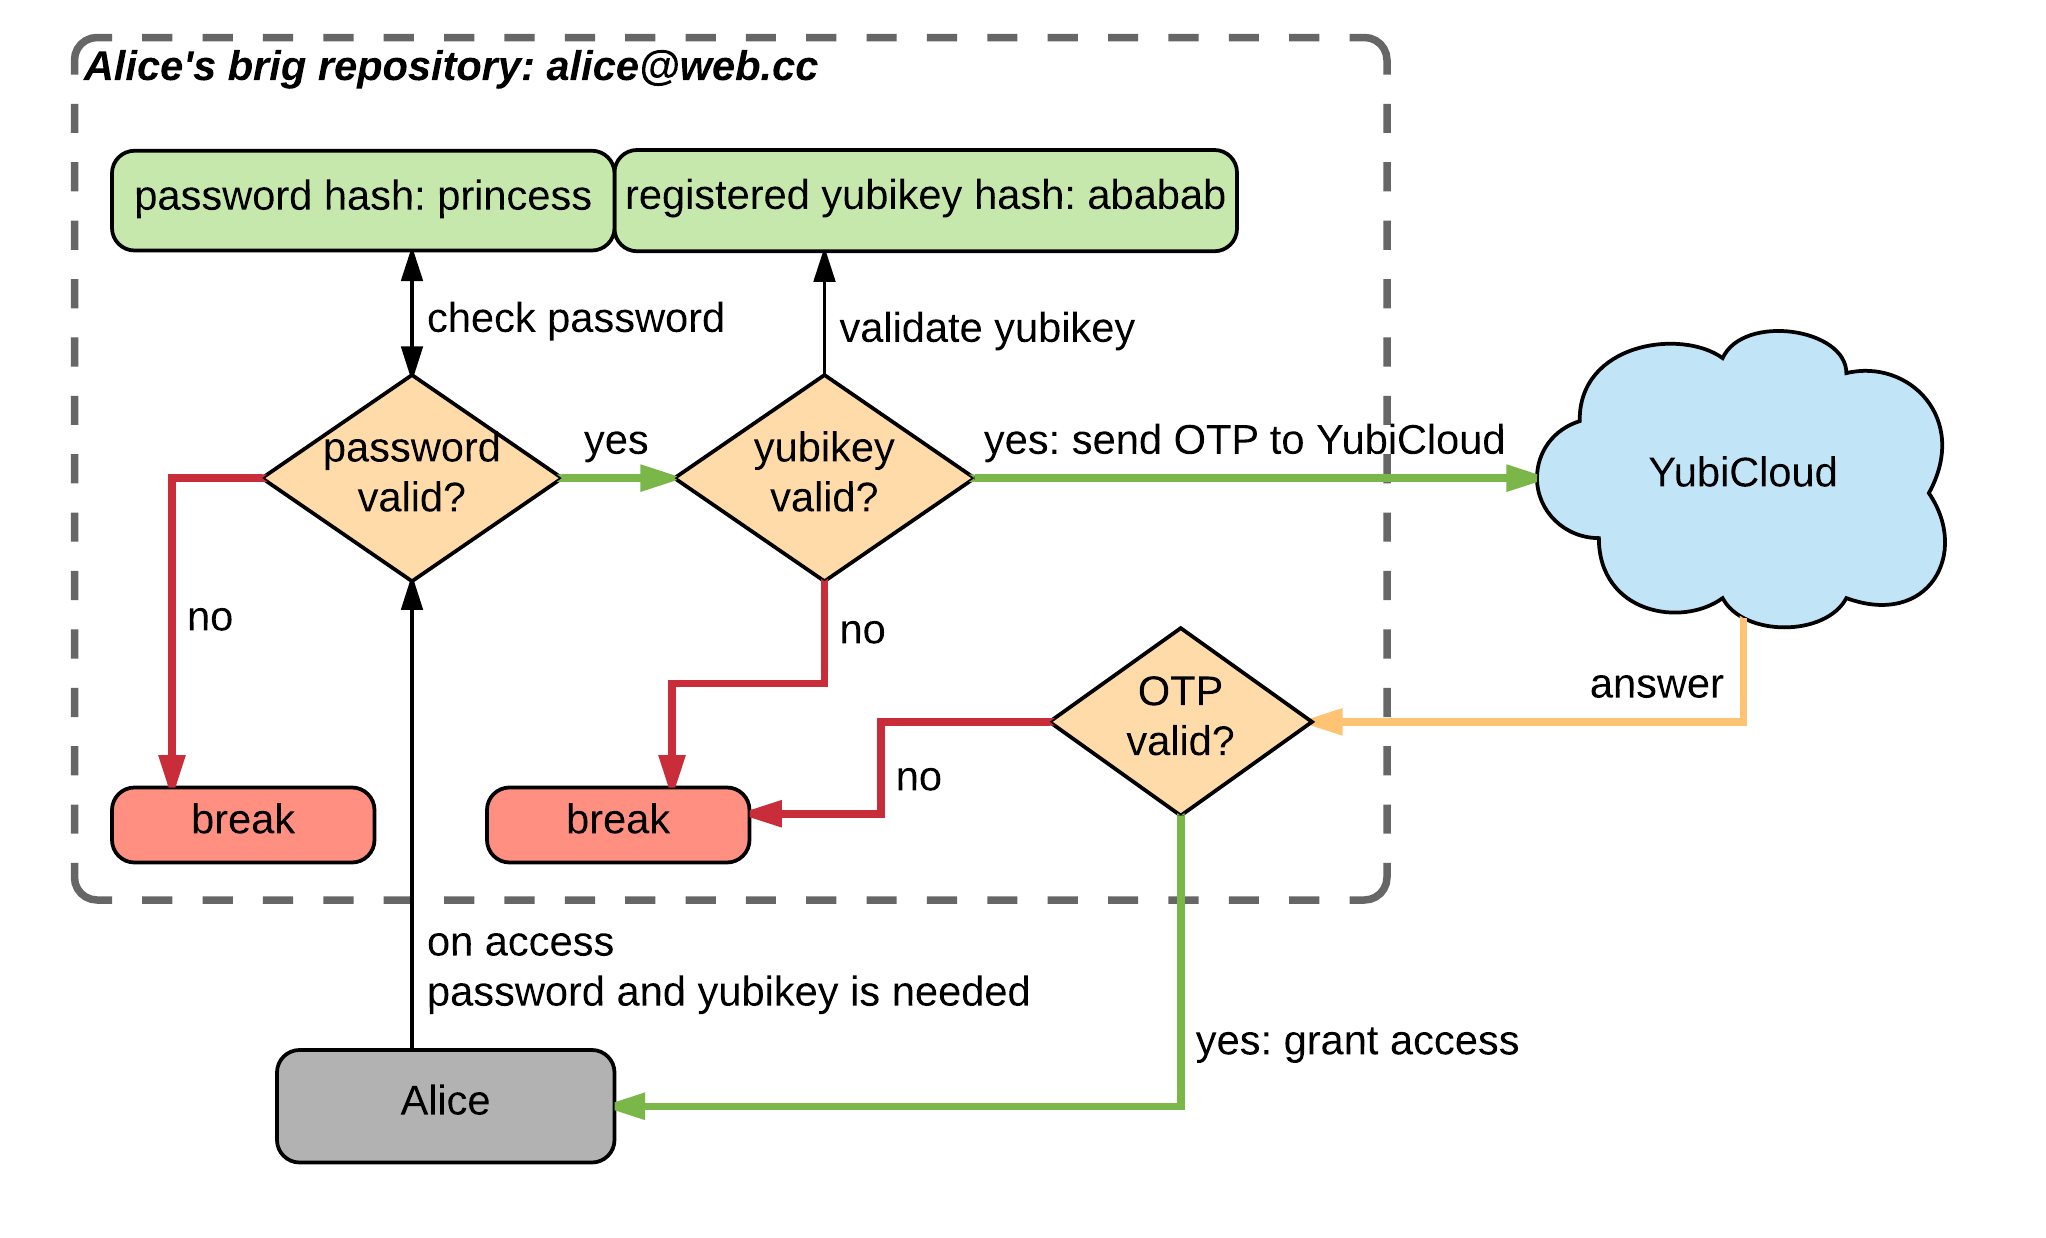
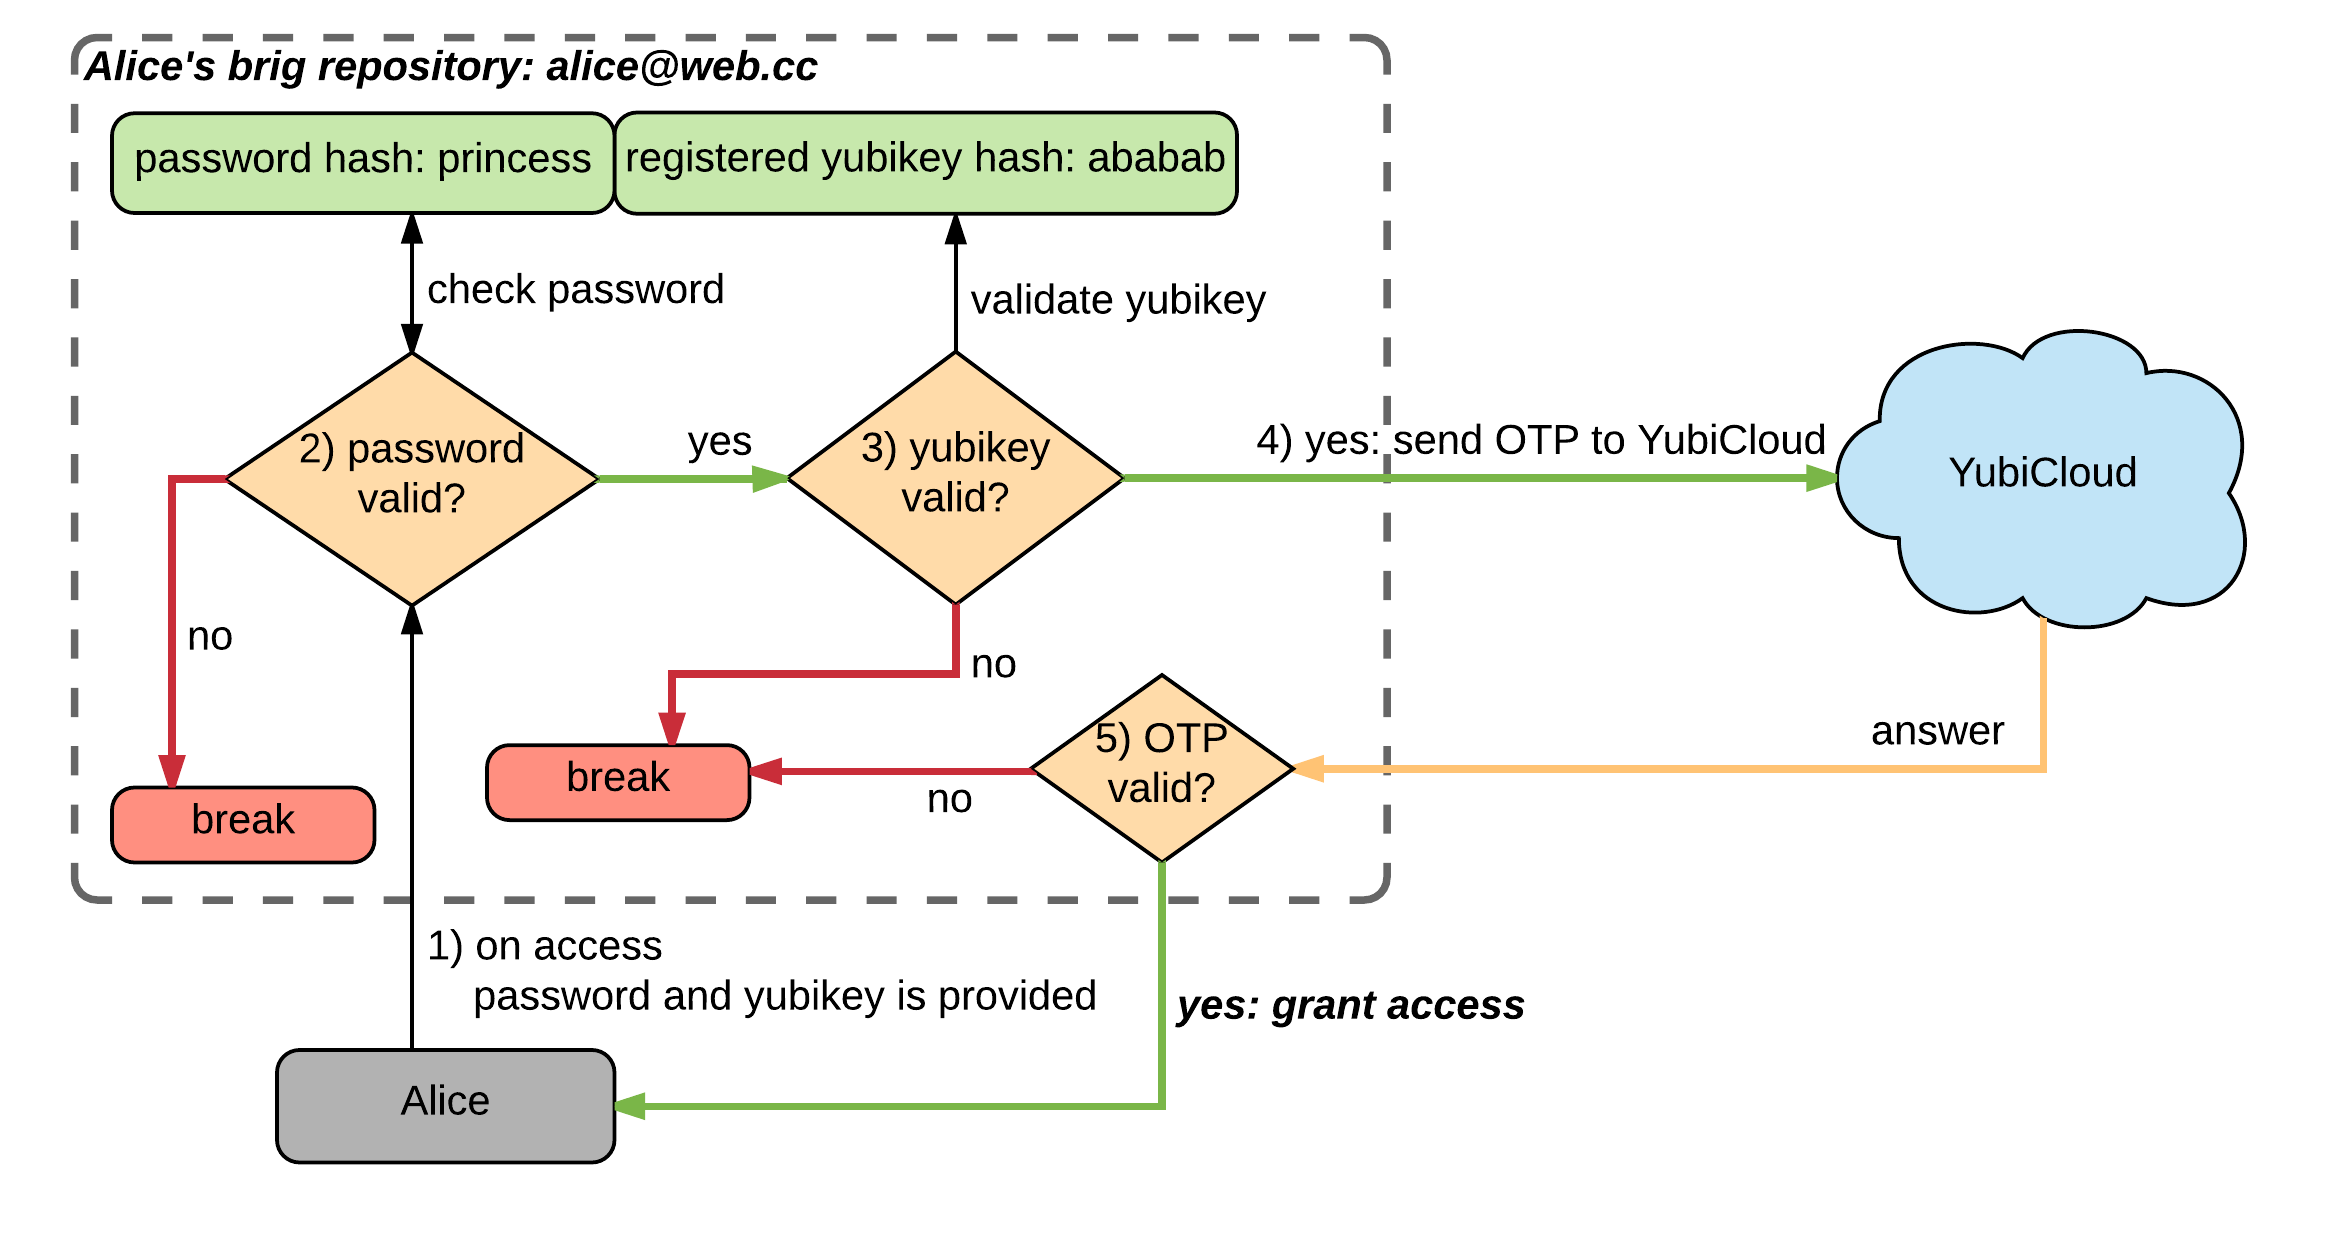
Fixes.

diff --git a/security/08-Verbesserungen.md b/security/08-Verbesserungen.md
@@ -172,7 +172,7 @@ es wurde standardmäßig ein *DSA* Schlüssel zum Signieren und ein *ElGamal*
 Schlüssel zum Ver-- und Entschlüsseln angelegt), andererseits ermöglicht es
 *GnuPG*, Schlüssel mit unterschiedlichem »Schutzbedarf« anders zu behandeln.
 
-![GnuPG--Schlüsselpaar RSA/RSA bestehend aus einem Haupt- und Unterschlüssel. Beide Schlüssel haben unterschiedliche Fähigkeiten und bestehen jeweils aus einem öffentlichen und einem privaten Schlüssel. In Hexadezimal ist jeweils der Fingerprint eines Schlüssels dargestellt. Der Fingerprint ist 20 Bytes. Die »Long--Key--ID« entspricht den letzten 8 Bytes, die »Short--Key--ID« entspricht den letzten 4 Bytes.](images/gpg_keypair.png){#fig:IMG_GNUPG_KEYPAIR width=90%}
+![GnuPG--Schlüsselpaar RSA/RSA bestehend aus einem Haupt- und Unterschlüssel. Beide Schlüssel haben unterschiedliche Fähigkeiten und bestehen jeweils aus einem öffentlichen und einem privaten Schlüssel. In Hexadezimal ist jeweils der Fingerprint eines Schlüssels dargestellt. Der Fingerprint ist 20 Bytes groß. Die »Long--Key--ID« entspricht den letzten 8 Bytes, die »Short--Key--ID« entspricht den letzten 4 Bytes.](images/gpg_keypair.png){#fig:IMG_GNUPG_KEYPAIR width=90%}
 
 Der »Schlüsselbund« besteht bei Anlage eines neuen Schlüssels mit `gpg
 --gen-key` aus einem Hauptschlüssel- und einem Unterschlüsselpaar. Beide
@@ -382,7 +382,7 @@ seinen Synchronisationspartner anhand eines *gemeinsamen Geheimnises* oder anhan
 *Frage--Antwort--Dialogs* zu verifizieren. [@fig:img-question-answer] zeigt den
 Ablauf einer Authentifizierung des Synchronisationspartners mittels Frage--Antwort--Dialog, welcher in folgenden Schritten abläuft:
 
-![Frage--Antwort--Authentifizierung. Alice stellt Bob eine Frage auf die nur er die Antwort wissen kann.](images/question-answer.png){#fig:img-question-answer width=100%}
+![Frage--Antwort--Authentifizierung. Alice stellt Bob eine persönliche Frage auf die Bob die Antwort weiß.](images/question-answer.png){#fig:img-question-answer width=100%}
 
 1. Alice generiert eine zufällige Nonce, Frage und Antwort.
 2. Alice verschlüsselt Nonce + Antwort, signiert diese mit ihrem privaten Schlüssel
@@ -398,8 +398,9 @@ Ablauf einer Authentifizierung des Synchronisationspartners mittels Frage--Antwo
 7. Stimmen alle drei Parameter überein, dann wird Bob von Alice als
    vertrauenswürdig eingestuft und Alice kann somit Bob's ID als vertrauenswürdig
    hinterlegen.
-8. Um Alice gegenüber Bob zu verifizieren, muss das Protokoll von Bob aus
-   initialisiert werden.
+
+Um Alice gegenüber Bob zu verifizieren, muss das Protokoll von Bob aus
+initialisiert werden.
 
 Die Anforderungen des Protokolls richten sich hierbei nach den Prinzipien (vgl. [@martin2012everyday], S. 295 ff):
 
@@ -700,9 +701,12 @@ Informationen validiert werden:
 
 ![Schematische Darstellung der Zwei--Faktor--Authentifizierung gegenüber einem »brig«--Repository.](images/poc-2fa-auth.png){#fig:img-poc-brig-2fa width=85%}
 
-1. »brig« prüft das Passwort von Alice.
-2. »brig« prüft anhand der *Public--ID*, ob der *YubiKey* von Alice dem Repository bekannt ist.
-3. »brig« lässt das One--Time--Passwort des *YubiKey* von der *YubiCloud* validieren.
+1. Alice startet mit ihrem Passwort und YubiKey einen Loginvorgang.
+2. »brig« prüft das Passwort von Alice.
+3. »brig« prüft anhand der *Public--ID*, ob der *YubiKey* von Alice dem
+   Repository bekannt ist.
+4. »brig« lässt das One--Time--Passwort des *YubiKey* von der *YubiCloud* validieren.
+5. Ist das One--Time--Passwort korrekt, so bekommt Alice Zugriff auf das Repository.
 
 Eine essentiell wichtige Komponente an dieser Stelle ist der Zusammenhang
 zwischen dem Repository und dem *YubiKey*. Der *YubiKey* muss beim
